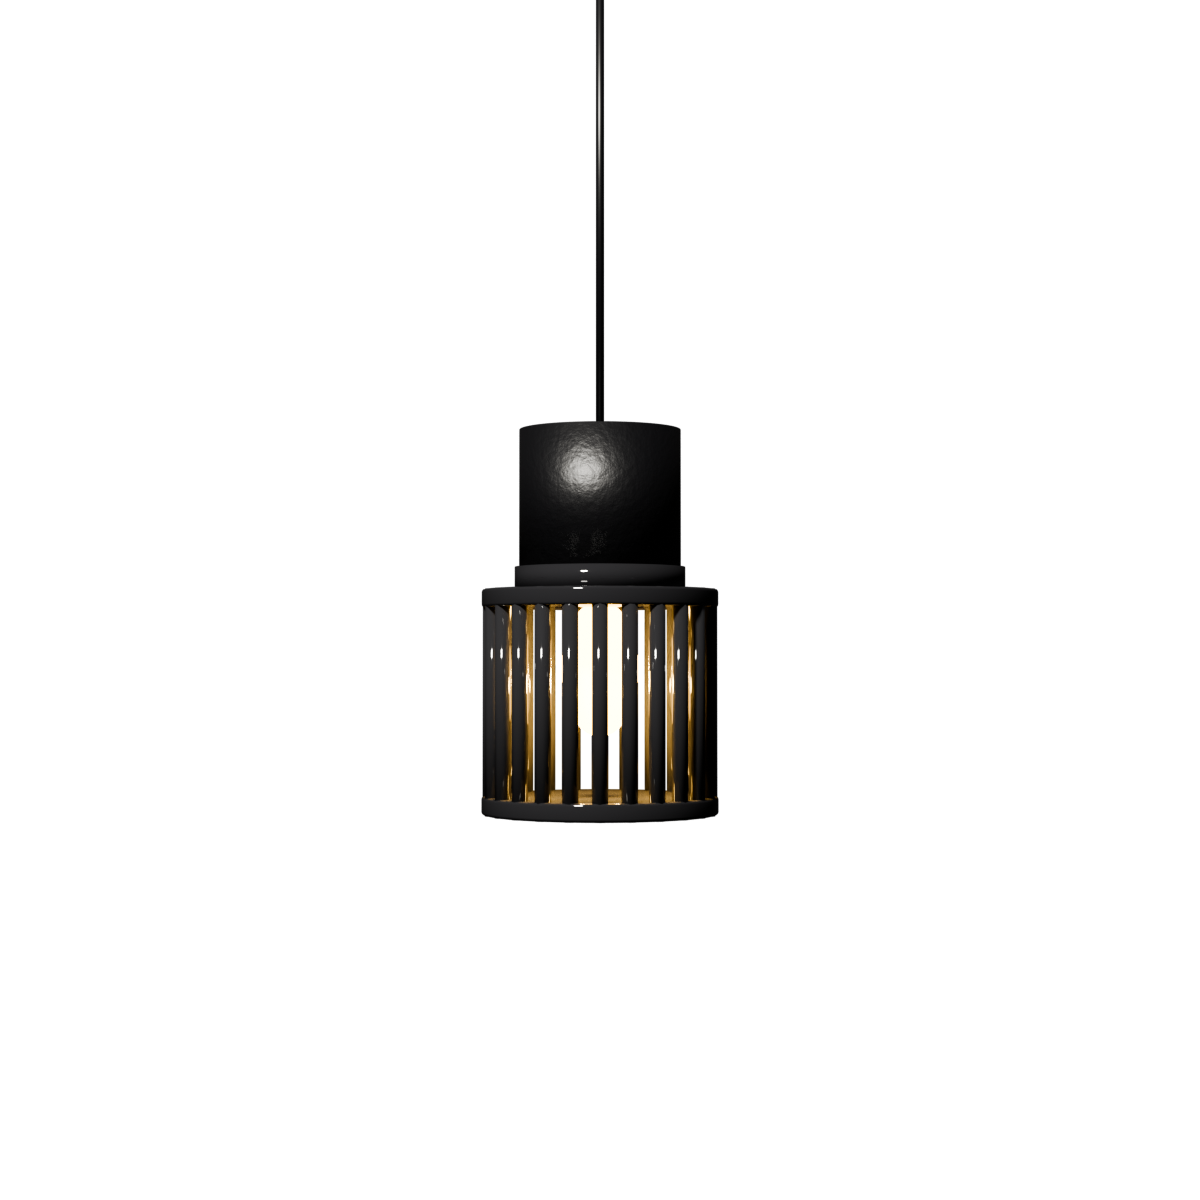
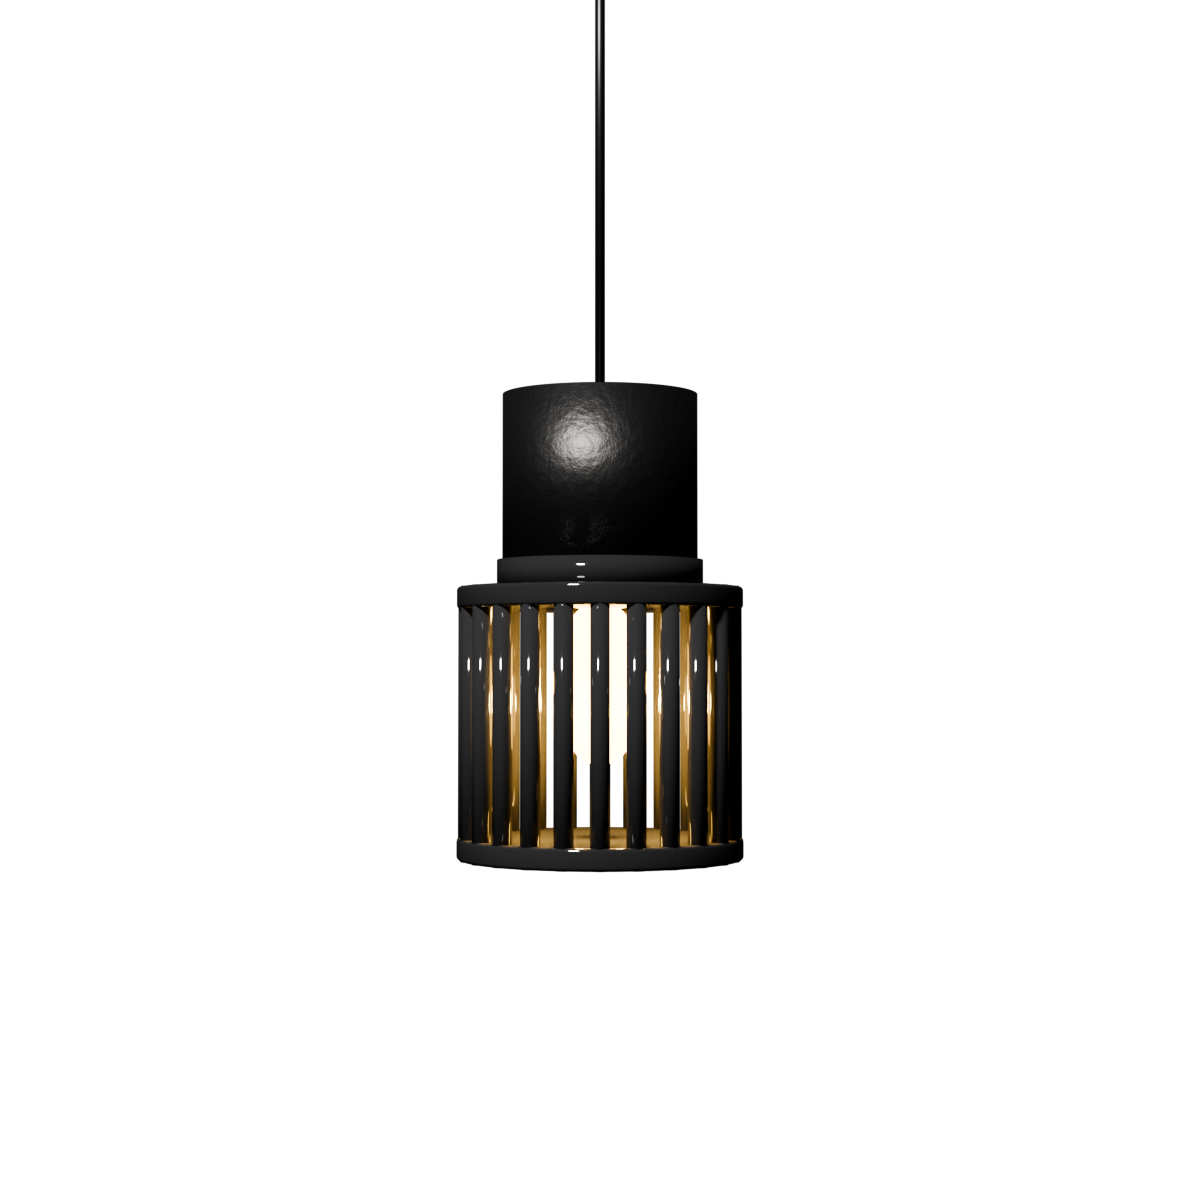
Move light fixture camera closer (1.45 → 1.20)

Changed region(s): [[0.37, 0.0, 0.6167, 0.74]]

diff --git a/scripts/render_light_fixture.py b/scripts/render_light_fixture.py
@@ -313,7 +313,7 @@ cam_obj  = bpy.data.objects.new('Camera', cam_data)
 bpy.context.collection.objects.link(cam_obj); scene.camera = cam_obj
 # Look at the middle of the fixture (between cap and cage)
 look_z   = (CAP_Z + CAGE_Z) / 2
-cam_pos  = Vector((0.0, -1.45, look_z - 0.04))
+cam_pos  = Vector((0.0, -1.20, look_z - 0.04))
 look_at  = Vector((0.0,  0.00, look_z))
 cam_obj.location = cam_pos
 cam_obj.rotation_euler = (look_at - cam_pos).to_track_quat('-Z','Y').to_euler()
